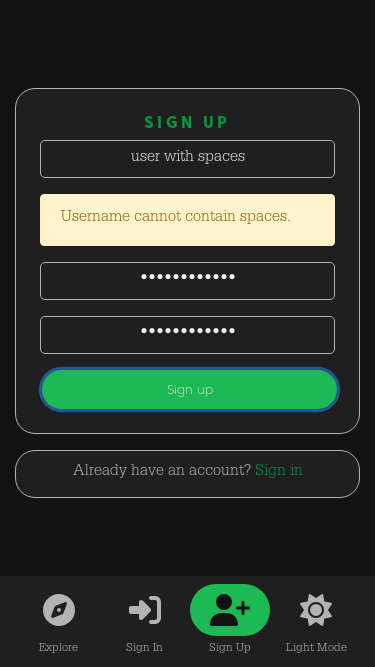
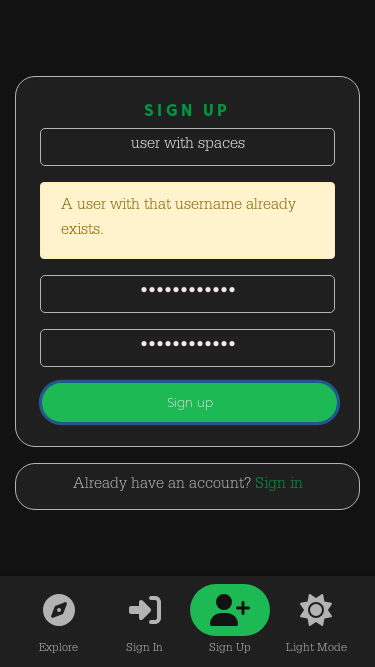
feat(auth): Enhance sign-in and sign-up processes
- Add detailed frontend validation for sign-in form
- Implement specific error messages for empty username and password fields
- Clear field-specific errors on user input
- Display generic error message for invalid credentials
- Add success messages for sign-in and sign-up with delayed redirect
- Implement alert refreshing in both sign-in and sign-up forms
- Add test case for signing up with an existing username
- Update SignUpForm to handle existing username error
- Improve error handling and user feedback in both auth forms

diff --git a/frontend/src/pages/auth/SignInForm.js b/frontend/src/pages/auth/SignInForm.js
@@ -25,14 +25,36 @@ function SignInForm() {
     password: "",
   });
   const { username, password } = signInData;
-
   const [errors, setErrors] = useState({});
+
+  const handleChange = (event) => {
+    setSignInData({
+      ...signInData,
+      [event.target.name]: event.target.value,
+    });
+    // Clear the specific error when user starts typing
+    if (errors[event.target.name]) {
+      setErrors({
+        ...errors,
+        [event.target.name]: null,
+      });
+    }
+  };
 
   const handleSubmit = async (event) => {
     event.preventDefault();
-  
+    const newErrors = {};
+
+    // Check for empty fields
+    if (!username.trim()) newErrors.username = "Username may not be blank.";
+    if (!password) newErrors.password = "Password may not be blank.";
+
+    if (Object.keys(newErrors).length > 0) {
+      setErrors(newErrors);
+      return;
+    }
+
     try {
-      
       const { data } = await axios.post("/dj-rest-auth/login/", signInData);
       
       localStorage.setItem("accessToken", data.access_token);
@@ -47,16 +69,20 @@ function SignInForm() {
       
       history.push("/");
     } catch (err) {
-      
-      setErrors(err.response?.data || {});
+      if (err.response?.status === 400) {
+        // Check the error message to determine if it's an invalid username or password
+        const errorMessage = err.response?.data?.non_field_errors?.[0] || "";
+        if (errorMessage.toLowerCase().includes("username")) {
+          setErrors({ username: "Invalid username." });
+        } else if (errorMessage.toLowerCase().includes("password")) {
+          setErrors({ password: "Invalid password." });
+        } else {
+          setErrors({ non_field_errors: ["Unable to log in with provided credentials."] });
+        }
+      } else {
+        setErrors({ non_field_errors: ["An error occurred. Please try again."] });
+      }
     }
-  };
-
-  const handleChange = (event) => {
-    setSignInData({
-      ...signInData,
-      [event.target.name]: event.target.value,
-    });
   };
 
   return (
@@ -77,12 +103,12 @@ function SignInForm() {
                 autoComplete="username"
               />
             </Form.Group>
-            {errors.username?.map((message, idx) => (
-              <Alert key={idx} variant="warning">
-                {message}
+            {errors.username && (
+              <Alert variant="warning">
+                {errors.username}
               </Alert>
-            ))}
-
+            )}
+  
             <Form.Group controlId="password">
               <Form.Label className="d-none">Password</Form.Label>
               <Form.Control
@@ -95,22 +121,24 @@ function SignInForm() {
                 autoComplete="current-password"
               />
             </Form.Group>
-            {errors.password?.map((message, idx) => (
-              <Alert key={idx} variant="warning">
-                {message}
+            {errors.password && (
+              <Alert variant="warning">
+                {errors.password}
               </Alert>
-            ))}
+            )}
+            
             <Button
               className={`${btnStyles.Button} ${btnStyles.Wide} ${btnStyles.Bright}`}
               type="submit"
             >
               Sign in
             </Button>
-            {errors.non_field_errors?.map((message, idx) => (
-              <Alert key={idx} variant="warning" className="mt-3">
-                {message}
+            
+            {errors.non_field_errors && (
+              <Alert variant="warning" className="mt-3">
+                {errors.non_field_errors}
               </Alert>
-            ))}
+            )}
           </Form>
         </Container>
         <Container className={`mt-3 ${appStyles.Content}`}>

diff --git a/frontend/playwright/validation-tests/signIn.spec.js b/frontend/playwright/validation-tests/signIn.spec.js
@@ -1,0 +1,59 @@
+import { test, expect } from '@playwright/test';
+import { captureScreenshot, baseURL, login } from './testUtils';
+
+const BASE_URL = baseURL;
+
+test.describe('Sign In Process', () => {
+  test('Validate sign-in form and capture alerts', async ({ page }) => {
+    console.log(`Navigating to ${BASE_URL}/signin`);
+    await page.goto(`${BASE_URL}/signin`);
+
+    console.log('Starting sign-in validation tests');
+
+    // Test: Empty form submission
+    console.log('Testing empty form submission');
+    await page.click('button[type="submit"]');
+    console.log('Clicked sign-in button for empty form');
+    console.log('Waiting for alert to appear');
+    await page.waitForSelector('.alert');
+    await captureScreenshot(page, 'signin', 'empty-form-alert');
+    console.log('Captured screenshot for empty form alert');
+
+    // Test: Invalid username
+    console.log('Testing invalid username');
+    await page.fill('input[name="username"]', 'invaliduser');
+    await page.fill('input[name="password"]', 'somepassword');
+    await page.click('button[type="submit"]');
+    console.log('Clicked sign-in button for invalid username test');
+    console.log('Waiting for alert to appear');
+    await page.waitForSelector('.alert');
+    await captureScreenshot(page, 'signin', 'invalid-username-alert');
+    console.log('Captured screenshot for invalid username alert');
+
+    // Test: Invalid password
+    console.log('Testing invalid password');
+    await page.fill('input[name="username"]', 'testuser');
+    await page.fill('input[name="password"]', 'wrongpassword');
+    await page.click('button[type="submit"]');
+    console.log('Clicked sign-in button for invalid password test');
+    console.log('Waiting for alert to appear');
+    await page.waitForSelector('.alert');
+    await captureScreenshot(page, 'signin', 'invalid-password-alert');
+    console.log('Captured screenshot for invalid password alert');
+
+    // Test: Successful signin
+    console.log('Testing successful signin');
+    await login(page);
+    console.log('Waiting for network idle after signin');
+    await page.waitForLoadState('networkidle');
+    await captureScreenshot(page, 'signin', 'successful-signin');
+    console.log('Captured screenshot for successful signin');
+
+    // Verify successful signin
+    const accessToken = await page.evaluate(() => localStorage.getItem('accessToken'));
+    expect(accessToken).toBeTruthy();
+    console.log('Verified access token in localStorage');
+
+    console.log('Sign-in validation tests completed');
+  });
+});

diff --git a/frontend/playwright/validation-tests/signUp.spec.js b/frontend/playwright/validation-tests/signUp.spec.js
@@ -18,7 +18,18 @@ test.describe('Sign Up Process', () => {
 
     console.log('Starting sign-up validation tests');
 
-    // Test: Empty form submission. Pass
+    console.log('Testing sign up with existing username');
+    await page.fill('input[name="username"]', 'testuser');
+    await page.fill('input[name="password1"]', 'newpassword123');
+    await page.fill('input[name="password2"]', 'newpassword123');
+    await page.click('button[type="submit"]');
+    console.log('Clicked sign-up button for existing username test');
+    console.log('Waiting for alert to appear');
+    await page.waitForSelector('.alert');
+    await captureScreenshot(page, 'signup', 'existing-username-alert');
+    console.log('Captured screenshot for existing username alert');
+
+    // Test: Empty form submission.
     console.log('Testing empty form submission');
     await page.click('button[type="submit"]');
     console.log('Clicked sign-up button for empty form');

diff --git a/frontend/playwright/validation-tests/testUtils.js b/frontend/playwright/validation-tests/testUtils.js
@@ -6,7 +6,7 @@ export const baseURL = 'localhost:8080';
 
 export async function login(page) {
   console.log('Logging in...');
-  await page.goto(`${BASE_URL}/signin`);
+  await page.goto(`${baseURL}/signin`);
   console.log('Navigated to signin page');
 
   console.log('Filling in login form...');
